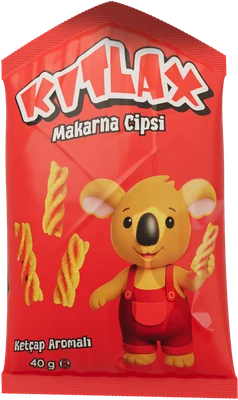
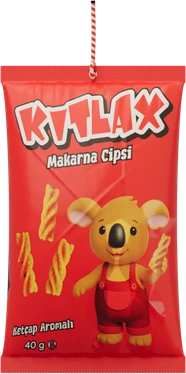
Onizleme: 12ae645 surumu

diff --git a/css/site.css b/css/site.css
@@ -268,8 +268,7 @@ section:not(.film) { position: relative; z-index: 1; padding: clamp(4.5rem, 3rem
 
 /* the koala, dressed in each flavour's colour */
 .koala { display: grid; grid-template-columns: minmax(0, 0.8fr) minmax(0, 1fr); gap: clamp(1.5rem, 1rem + 4vw, 5rem); align-items: center; background: var(--cream-2); }
-/* (left 2%: the bag hangs out past the artwork's left edge; the pair is centred, not the koala alone) */
-.koala__stage { position: relative; left: 2%; width: min(90%, 26rem); justify-self: center; transform: translate3d(var(--kx, 0px), var(--ky, 0px), 0); transition: transform 900ms var(--e-out); }
+.koala__stage { position: relative; width: min(100%, 26rem); justify-self: center; transform: translate3d(var(--kx, 0px), var(--ky, 0px), 0); transition: transform 900ms var(--e-out); }
 /* standing on the floor, not floating: a soft contact shadow under the feet, and only a light shadow
    of the figure on the wall behind (a wide drop shadow alone read as a cut-out with a halo) */
 .koala__stage::before { content: ""; position: absolute; z-index: -1; left: 22%; right: 20%; top: 95.4%; height: 6.6%; border-radius: 50%; pointer-events: none;
@@ -277,14 +276,18 @@ section:not(.film) { position: relative; z-index: 1; padding: clamp(4.5rem, 3rem
 .koala__img, .koala__paint { display: block; width: 100%; height: auto; filter: drop-shadow(14px 22px 26px rgba(60, 30, 10, 0.13)); }
 .koala__paint { position: absolute; inset: 0; height: 100%; opacity: 0; transition: opacity 500ms var(--e-out); pointer-events: none; filter: none; }
 .koala__paint.is-on { opacity: 1; }
-/* boxes from tools/koala_hold.py, as shares of the artwork; the bag swings about the grip (the peak of its roof, 47% 1.5% of its box) */
-.koala__hold { position: absolute; left: -4.196%; top: 46.091%; width: 27.197%; aspect-ratio: 238 / 400; pointer-events: none;
-  transform-origin: 46.7% 1.5%; filter: drop-shadow(10px 16px 14px rgba(60, 30, 10, 0.22)); }
+/* the chosen flavour's bag hangs on a cord from the koala's wrist (style_koalastring.py, tools/koala_hold.py):
+   its shadow on the koala, the bag (it swings about the knot when chosen), the loop and knot over the wrist.
+   Boxes are shares of the artwork. The bag's shadow on the wall is the same drop shadow as the koala's. */
+.koala__shade, .koala__hold, .koala__loop { position: absolute; pointer-events: none; }
+.koala__shade { left: 13.743%; top: 50.139%; width: 27.655%; height: auto; }
+.koala__hold { left: 9.162%; top: 53.750%; width: 21.265%; aspect-ratio: 186 / 374;
+  transform-origin: 49.9% 0.1%; filter: drop-shadow(14px 22px 26px rgba(60, 30, 10, 0.13)); }
 .koala__hold img { position: absolute; inset: 0; width: 100%; height: 100%; opacity: 0; transition: opacity 420ms var(--e-out); }
 .koala__hold img.is-on { opacity: 1; }
-.koala__hold.is-swinging { animation: koala-swing 1500ms cubic-bezier(0.3, 0.6, 0.4, 1); }
-@keyframes koala-swing { 0% { rotate: 0deg; } 14% { rotate: 6deg; } 36% { rotate: -3.6deg; } 56% { rotate: 2deg; } 74% { rotate: -0.9deg; } 88% { rotate: 0.35deg; } 100% { rotate: 0deg; } }
-.koala__paw { position: absolute; left: 0; top: 37.654%; width: 20.942%; height: auto; pointer-events: none; }
+.koala__hold.is-swinging { animation: koala-swing 1800ms cubic-bezier(0.3, 0.6, 0.4, 1); }
+@keyframes koala-swing { 0% { rotate: 0deg; } 12% { rotate: 4.5deg; } 32% { rotate: -3deg; } 52% { rotate: 1.8deg; } 70% { rotate: -0.9deg; } 86% { rotate: 0.35deg; } 100% { rotate: 0deg; } }
+.koala__loop { left: 16.684%; top: 38.213%; width: 24.884%; height: auto; }
 .koala__text { display: grid; gap: 1.2rem; max-width: 32rem; }
 .koala__text > p:not(.label) { font-size: var(--t-lead); color: var(--ink-soft); }
 .koala__dress { display: flex; flex-wrap: wrap; gap: 0.5rem; margin-top: 0.4rem; }

diff --git a/index.html b/index.html
@@ -18,7 +18,7 @@
 <link rel="preconnect" href="https://fonts.gstatic.com" crossorigin>
 <link rel="stylesheet" href="https://fonts.googleapis.com/css2?family=Bricolage+Grotesque:opsz,wght@12..96,400;12..96,600;12..96,800&family=Figtree:wght@400;500;600&display=swap">
 <link rel="preload" href="./film/film.json?v=6" as="fetch" crossorigin>
-<link rel="stylesheet" href="./css/site.css?v=8">
+<link rel="stylesheet" href="./css/site.css?v=9">
 <script type="application/ld+json">
 {
   "@context": "https://schema.org",
@@ -244,15 +244,16 @@
   <!-- ===== The koala ==================================================== -->
   <section class="koala" aria-labelledby="koala-title">
     <div class="koala__stage">
-      <img class="koala__img" src="./img/koala.webp" alt="Kıtlax'ın koalası, elinde seçtiğiniz aromanın paketiyle" width="875" height="1178" loading="lazy" decoding="async">
+      <img class="koala__img" src="./img/koala.webp" alt="Kıtlax'ın koalası, bileğine bağlı iple seçtiğiniz aromanın paketini taşıyor" width="875" height="1178" loading="lazy" decoding="async">
       <canvas class="koala__paint" aria-hidden="true"></canvas>
+      <img class="koala__shade" src="./img/koala/shade.webp" alt="" aria-hidden="true" width="242" height="499" loading="lazy" decoding="async">
       <span class="koala__hold" aria-hidden="true">
-        <img class="is-on" data-bag="ketcap" src="./img/koala/bag-ketcap.webp" alt="" width="238" height="400" loading="lazy" decoding="async">
-        <img data-bag="peynir" src="./img/koala/bag-peynir.webp" alt="" width="238" height="400" loading="lazy" decoding="async">
-        <img data-bag="sut" src="./img/koala/bag-sut.webp" alt="" width="238" height="400" loading="lazy" decoding="async">
-        <img data-bag="tako" src="./img/koala/bag-tako.webp" alt="" width="238" height="400" loading="lazy" decoding="async">
+        <img class="is-on" data-bag="ketcap" src="./img/koala/bag-ketcap.webp" alt="" width="186" height="374" loading="lazy" decoding="async">
+        <img data-bag="peynir" src="./img/koala/bag-peynir.webp" alt="" width="186" height="374" loading="lazy" decoding="async">
+        <img data-bag="sut" src="./img/koala/bag-sut.webp" alt="" width="186" height="374" loading="lazy" decoding="async">
+        <img data-bag="tako" src="./img/koala/bag-tako.webp" alt="" width="186" height="374" loading="lazy" decoding="async">
       </span>
-      <img class="koala__paw" src="./img/koala/paw.webp" alt="" aria-hidden="true" width="183" height="136" loading="lazy" decoding="async">
+      <img class="koala__loop" src="./img/koala/loop.webp" alt="" aria-hidden="true" width="218" height="187" loading="lazy" decoding="async">
     </div>
     <div class="koala__text">
       <p class="label">Maskotumuz</p>
@@ -374,7 +375,7 @@
   <p class="foot__base"><span>© 2026 Kıtlax Makarna Cipsi</span><span>Tüm hakları saklıdır.</span></p>
 </footer>
 
-<script src="./js/i18n.js?v=6"></script>
+<script src="./js/i18n.js?v=7"></script>
 <script src="./js/home.js?v=4" defer></script>
 <script src="./js/scroll.js?v=4" defer></script>
 <script src="./js/trade.js?v=3" defer></script>

diff --git a/js/i18n.js b/js/i18n.js
@@ -204,7 +204,7 @@
     "Beşler Makarna 2004'ten beri bu çatının altında. Kıtlax onun makarna cipsi: Beşler'in irmiği ve titizliği, çıtır bir atıştırmalıkta.": "Beşler Makarna has been part of it since 2004. Kıtlax is its macaroni crisp: Beşler's semolina and care, in a crunchy snack.",
     "Üç dilli ambalaj": "Trilingual packaging",
     "Türkçe, İngilizce ve Arapça: ihracata hazır": "Turkish, English and Arabic: ready for export",
-    "Kıtlax'ın koalası, elinde seçtiğiniz aromanın paketiyle": "The Kıtlax koala holding the bag of the flavour you pick",
+    "Kıtlax'ın koalası, bileğine bağlı iple seçtiğiniz aromanın paketini taşıyor": "The Kıtlax koala carrying the bag of the flavour you pick, on a cord tied round its wrist",
     "Her aromanın paketinde, o aromanın renginde tulumuyla. Bir aroma seçin: koala onun paketini tutsun.": "On each flavour's bag, in dungarees of that flavour's colour. Pick a flavour and the koala holds up its bag.",
     "Koalanın aroması": "The koala's flavour",
     "Beşler": "Beşler",

diff --git a/aroma/ketcap.html b/aroma/ketcap.html
@@ -17,7 +17,7 @@
 <link rel="preconnect" href="https://fonts.googleapis.com">
 <link rel="preconnect" href="https://fonts.gstatic.com" crossorigin>
 <link rel="stylesheet" href="https://fonts.googleapis.com/css2?family=Bricolage+Grotesque:opsz,wght@12..96,400;12..96,600;12..96,800&family=Figtree:wght@400;500;600&display=swap">
-<link rel="stylesheet" href="../css/site.css?v=8">
+<link rel="stylesheet" href="../css/site.css?v=9">
 <link rel="stylesheet" href="../css/aroma.css?v=3">
 <style>:root { --c: #e9393f; --c2: #b3262d; --c3: #7d1418; }</style>
 </head>
@@ -169,7 +169,7 @@
   <p class="foot__base"><span>© 2026 Kıtlax Makarna Cipsi</span><span>Tüm hakları saklıdır.</span></p>
 </footer>
 
-<script src="../js/i18n.js?v=6"></script>
+<script src="../js/i18n.js?v=7"></script>
 <script src="../js/home.js?v=4" defer></script>
 <script src="../js/scroll.js?v=4" defer></script>
 <script src="../js/flavours.js?v=3" defer></script>

diff --git a/aroma/peynir.html b/aroma/peynir.html
@@ -17,7 +17,7 @@
 <link rel="preconnect" href="https://fonts.googleapis.com">
 <link rel="preconnect" href="https://fonts.gstatic.com" crossorigin>
 <link rel="stylesheet" href="https://fonts.googleapis.com/css2?family=Bricolage+Grotesque:opsz,wght@12..96,400;12..96,600;12..96,800&family=Figtree:wght@400;500;600&display=swap">
-<link rel="stylesheet" href="../css/site.css?v=8">
+<link rel="stylesheet" href="../css/site.css?v=9">
 <link rel="stylesheet" href="../css/aroma.css?v=3">
 <style>:root { --c: #5a9654; --c2: #3f7a3b; --c3: #22461f; }</style>
 </head>
@@ -169,7 +169,7 @@
   <p class="foot__base"><span>© 2026 Kıtlax Makarna Cipsi</span><span>Tüm hakları saklıdır.</span></p>
 </footer>
 
-<script src="../js/i18n.js?v=6"></script>
+<script src="../js/i18n.js?v=7"></script>
 <script src="../js/home.js?v=4" defer></script>
 <script src="../js/scroll.js?v=4" defer></script>
 <script src="../js/flavours.js?v=3" defer></script>

diff --git a/aroma/sut.html b/aroma/sut.html
@@ -17,7 +17,7 @@
 <link rel="preconnect" href="https://fonts.googleapis.com">
 <link rel="preconnect" href="https://fonts.gstatic.com" crossorigin>
 <link rel="stylesheet" href="https://fonts.googleapis.com/css2?family=Bricolage+Grotesque:opsz,wght@12..96,400;12..96,600;12..96,800&family=Figtree:wght@400;500;600&display=swap">
-<link rel="stylesheet" href="../css/site.css?v=8">
+<link rel="stylesheet" href="../css/site.css?v=9">
 <link rel="stylesheet" href="../css/aroma.css?v=3">
 <style>:root { --c: #3fb7bc; --c2: #2a9297; --c3: #135458; }</style>
 </head>
@@ -169,7 +169,7 @@
   <p class="foot__base"><span>© 2026 Kıtlax Makarna Cipsi</span><span>Tüm hakları saklıdır.</span></p>
 </footer>
 
-<script src="../js/i18n.js?v=6"></script>
+<script src="../js/i18n.js?v=7"></script>
 <script src="../js/home.js?v=4" defer></script>
 <script src="../js/scroll.js?v=4" defer></script>
 <script src="../js/flavours.js?v=3" defer></script>

diff --git a/aroma/tako.html b/aroma/tako.html
@@ -17,7 +17,7 @@
 <link rel="preconnect" href="https://fonts.googleapis.com">
 <link rel="preconnect" href="https://fonts.gstatic.com" crossorigin>
 <link rel="stylesheet" href="https://fonts.googleapis.com/css2?family=Bricolage+Grotesque:opsz,wght@12..96,400;12..96,600;12..96,800&family=Figtree:wght@400;500;600&display=swap">
-<link rel="stylesheet" href="../css/site.css?v=8">
+<link rel="stylesheet" href="../css/site.css?v=9">
 <link rel="stylesheet" href="../css/aroma.css?v=3">
 <style>:root { --c: #4373b0; --c2: #2f5791; --c3: #16294a; }</style>
 </head>
@@ -169,7 +169,7 @@
   <p class="foot__base"><span>© 2026 Kıtlax Makarna Cipsi</span><span>Tüm hakları saklıdır.</span></p>
 </footer>
 
-<script src="../js/i18n.js?v=6"></script>
+<script src="../js/i18n.js?v=7"></script>
 <script src="../js/home.js?v=4" defer></script>
 <script src="../js/scroll.js?v=4" defer></script>
 <script src="../js/flavours.js?v=3" defer></script>
